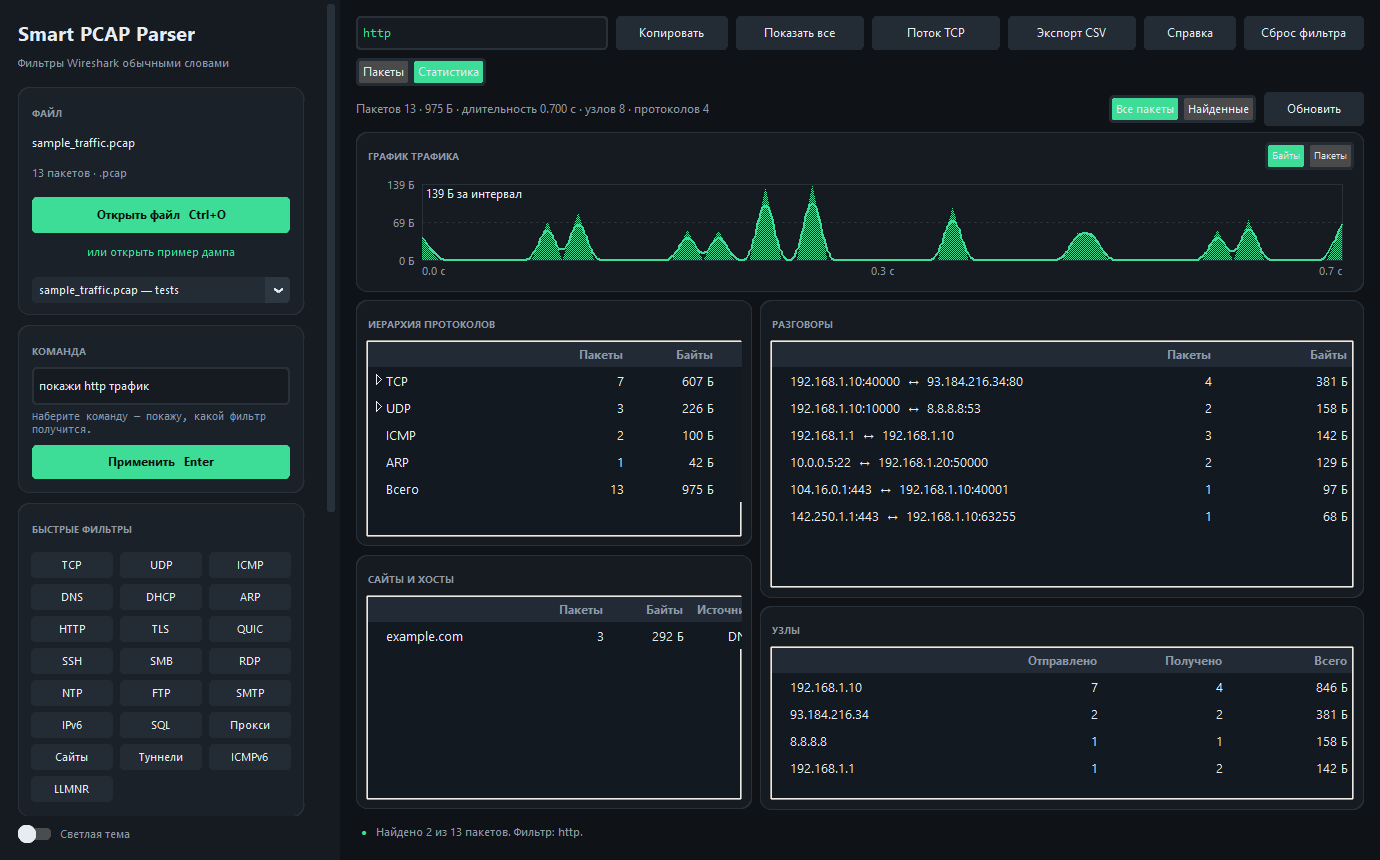
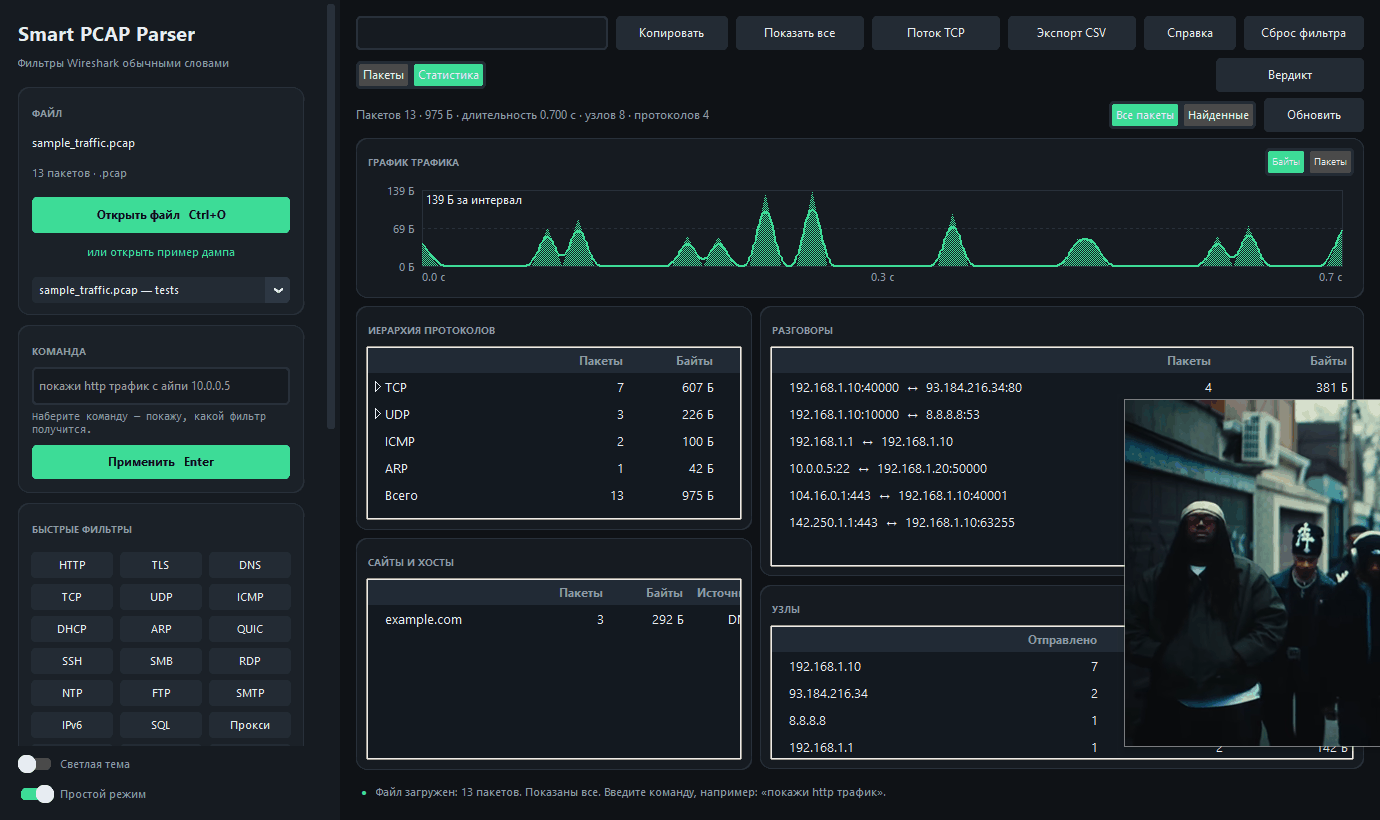
статистика только когда видна, свежие скриншоты, тесты на Windows в CI

diff --git a/gui/stats_view.py b/gui/stats_view.py
@@ -98,6 +98,11 @@ class StatsMixin:
         self.chart.set_data(timeline(packets), metric, theme_module.THEME)
 
     def _refresh_stats(self) -> None:
+        # Считаем только когда вкладка видна: на файле в сотни тысяч пакетов
+        # пересчёт после каждой команды заметно тормозил бы таблицу.
+        if getattr(self, "_current_view", "packets") != "stats":
+            return
+
         packets = self._stats_scope_packets()
         self._refresh_chart()
 

diff --git a/CHANGELOG.md b/CHANGELOG.md
@@ -26,6 +26,8 @@
   меню «Ещё…». Примеры команд и панель вердикта спрятаны, вердикт открывается
   кнопкой «Проверить файл». Выключателем внизу слева возвращается опытный
   вид, выбор запоминается в настройках.
+- Статистика пересчитывается только когда открыта её вкладка: на 80 000
+  пакетов команда занимает 0.34 с вместо 0.61 с.
 - Трейсбек упавшего exe пишется в `%TEMP%\smartpcap_crash.txt`: без консоли
   иначе не видно, что случилось.
 - Одиночный exe распаковывается в папку `tmp` рядом с собой, а не во

diff --git a/README.md b/README.md
@@ -301,6 +301,10 @@ Releases.
 
 Повторить: `python tools/bench.py --mb 100`.
 
+Статистика пересчитывается только когда открыта её вкладка. На 80 000
+пакетов команда с фильтром занимает 0.34 с вместо 0.61 с, потому что не
+считает заново иерархию, хосты и разговоры на каждый Enter.
+
 ## Тесты
 
 ```bash
